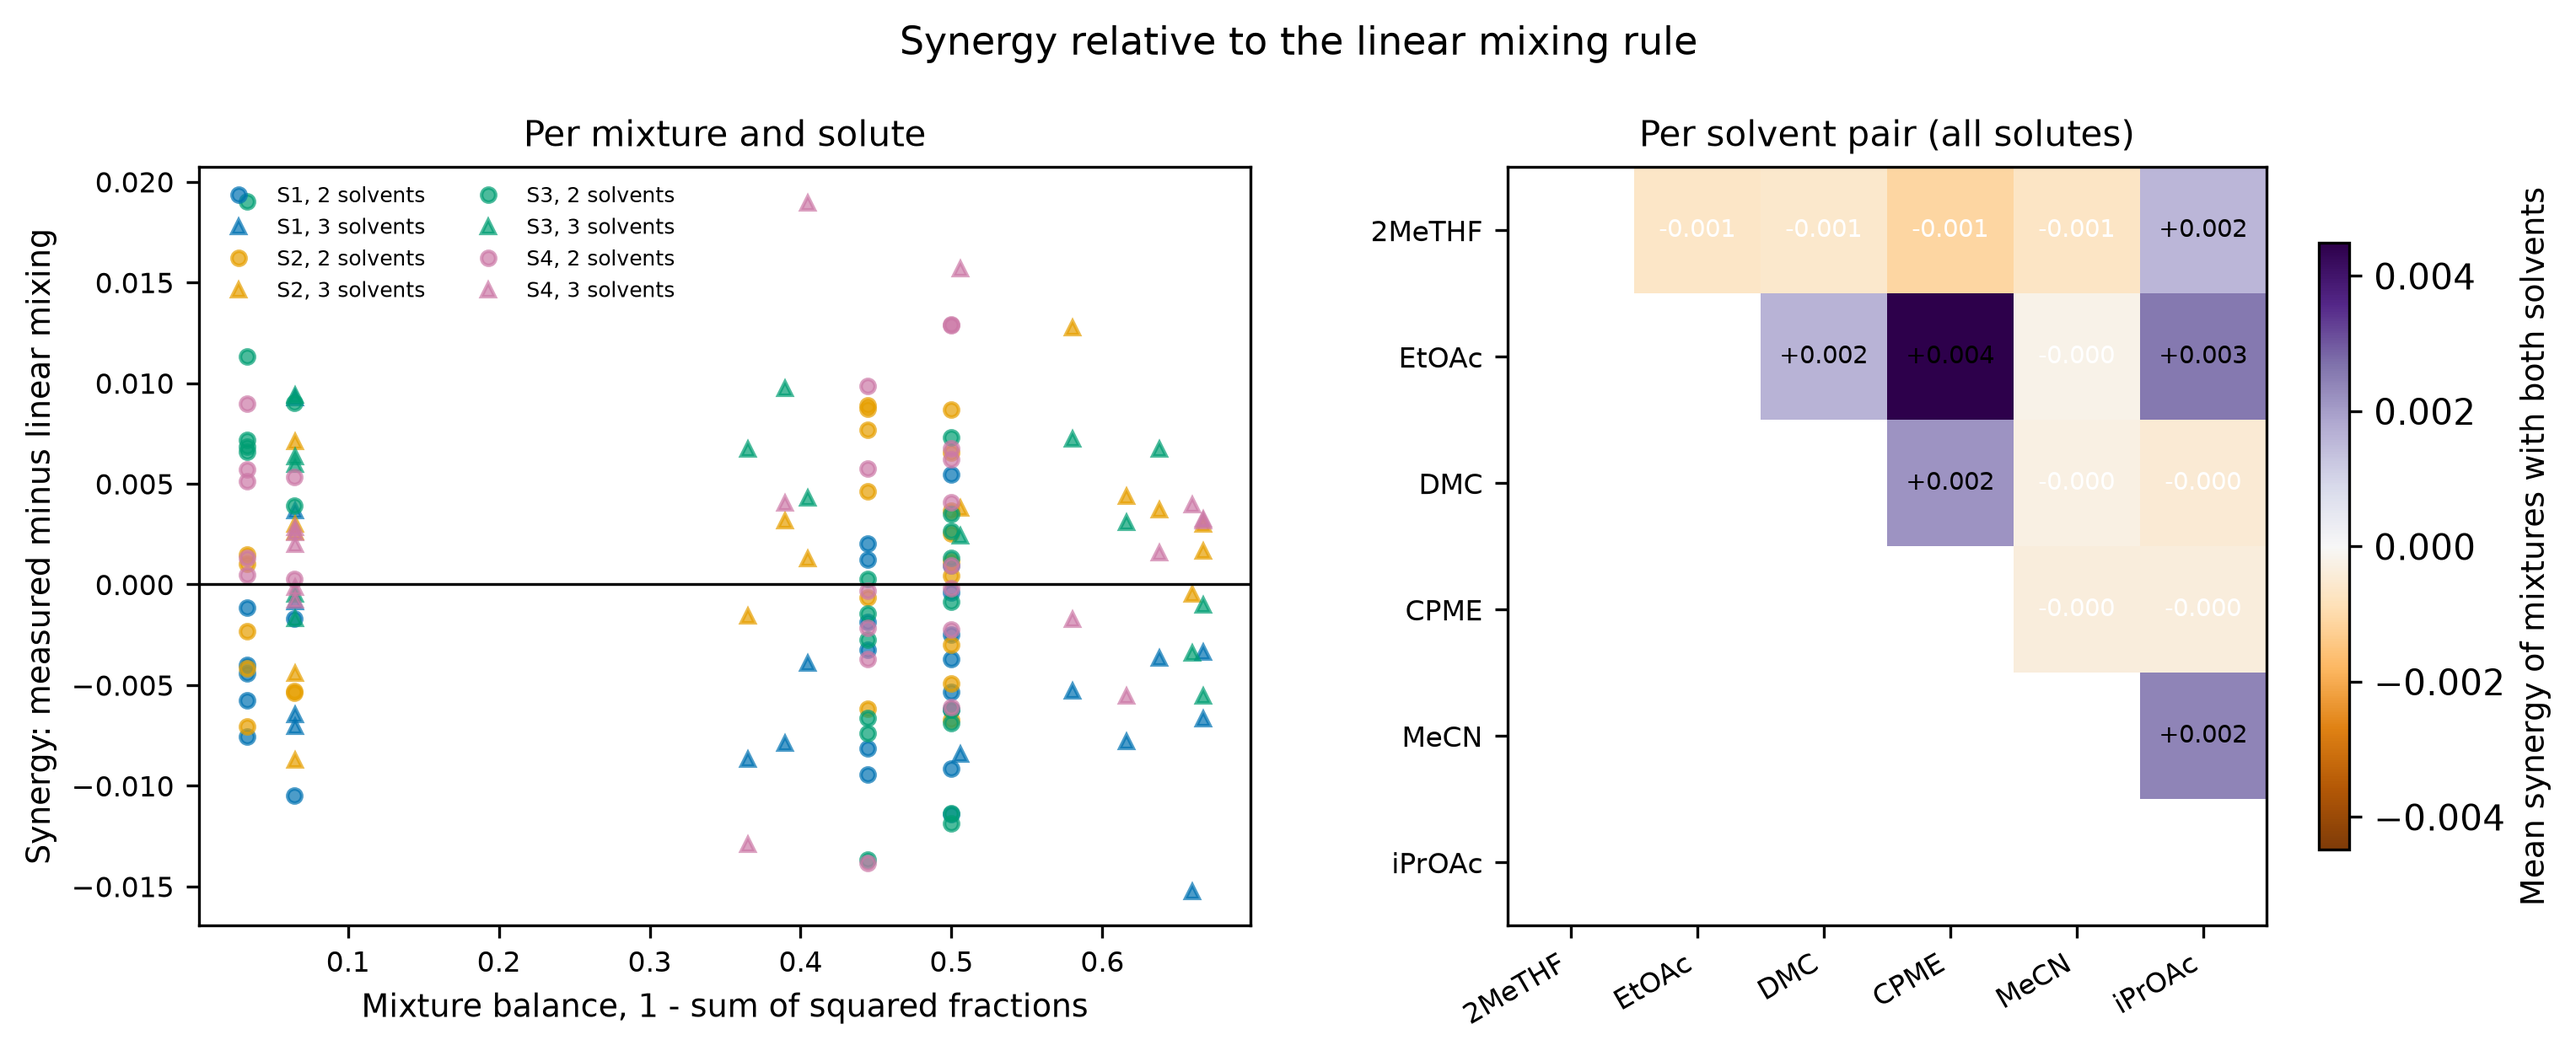
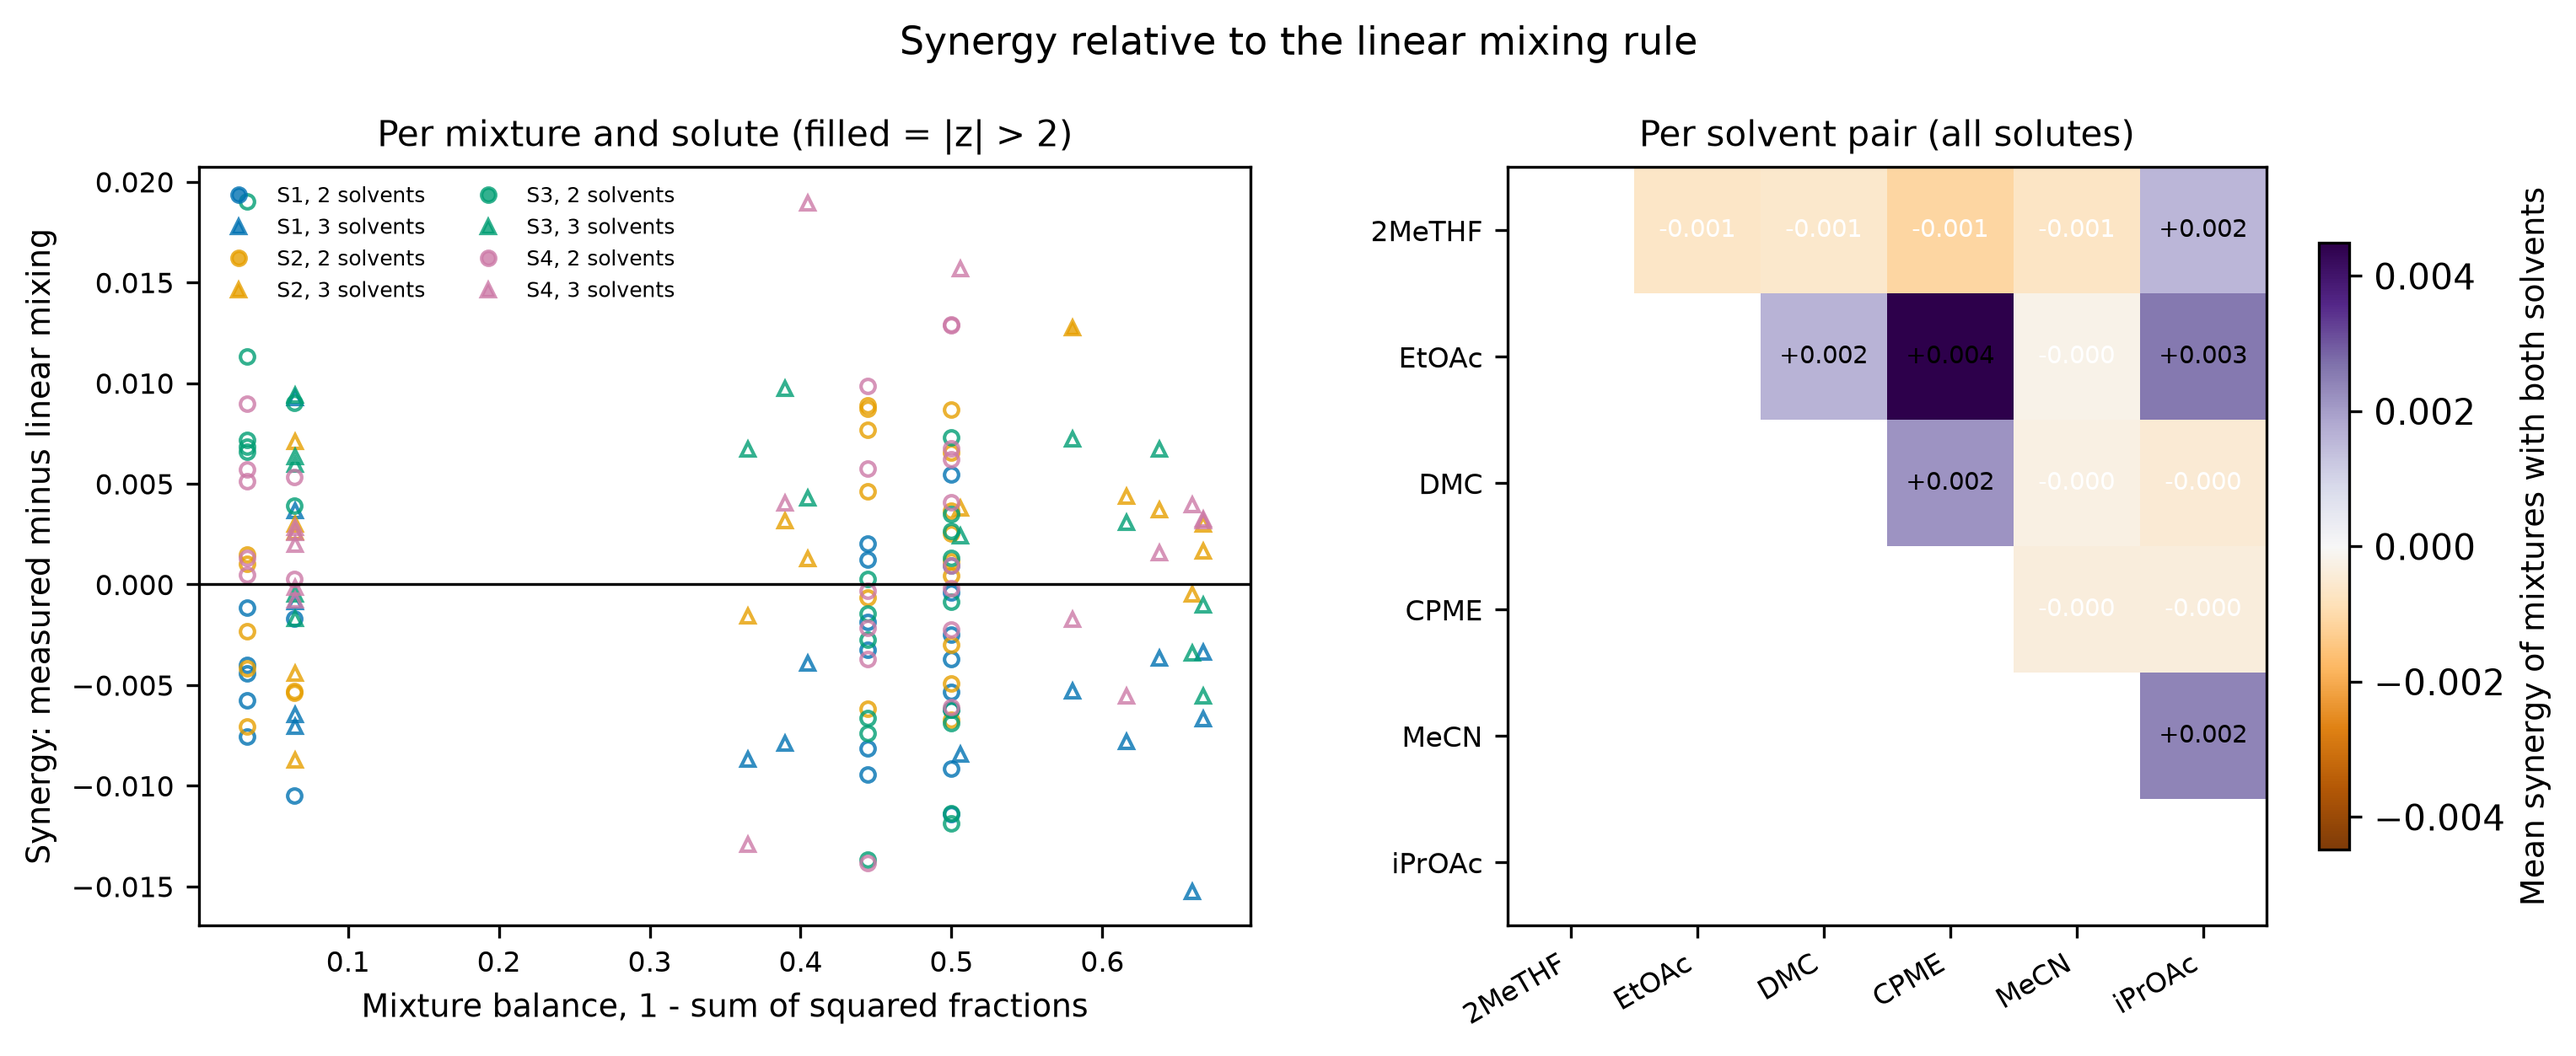
DATA: Regenerate toy-run reports with synergy significance

diff --git a/examples/toy_additive_output_one_plate/figures/report_summary.md b/examples/toy_additive_output_one_plate/figures/report_summary.md
@@ -8,10 +8,10 @@ For each solute on its own, does any green-solvent mixture dissolve more than th
 
 | solute | best_mixture | rel_mixture | best_pure | rel_pure | ratio | z | mixture_beats_pure |
 |---|---|---|---|---|---|---|---|
-| S1 | 0.983 DMC + 0.0167 MeCN | 0.892 | 1 DMC | 0.898 | 0.993 | -2.357 | False |
-| S2 | 0.983 DMC + 0.0167 CPME | 0.901 | 1 DMC | 0.904 | 0.996 | -0.818 | False |
-| S3 | 0.0167 EtOAc + 0.983 DMC | 0.915 | 1 DMC | 0.901 | 1.015 | 1.844 | False |
-| S4 | 0.0167 2MeTHF + 0.983 DMC | 0.899 | 1 DMC | 0.899 | 1.000 | 0.019 | False |
+| S1 | 0.983 DMC + 0.0167 MeCN | 0.892 | 1 DMC | 0.898 | 0.993 | -0.309 | False |
+| S2 | 0.983 DMC + 0.0167 CPME | 0.901 | 1 DMC | 0.904 | 0.996 | -0.466 | False |
+| S3 | 0.0167 EtOAc + 0.983 DMC | 0.915 | 1 DMC | 0.901 | 1.015 | 0.875 | False |
+| S4 | 0.0167 2MeTHF + 0.983 DMC | 0.899 | 1 DMC | 0.899 | 1.000 | 0.013 | False |
 
 
 ![report_R1_per_solute](report_R1_per_solute.png)
@@ -24,16 +24,16 @@ Is there one mixture that dissolves all solutes well at once, i.e. whose worst s
 
 | rank | mixture | obj_min_rel | obj_err | worst_solute | n_solvents | first_round |
 |---|---|---|---|---|---|---|
-| 1 | 1 DMC | 0.898 | 0.003 | S1 | 1 | 1 |
-| 2 | 0.983 DMC + 0.0167 MeCN | 0.891 | 0.000 | S4 | 2 | 2 |
-| 3 | 0.983 DMC + 0.0167 iPrOAc | 0.886 | 0.000 | S2 | 2 | 2 |
-| 4 | 0.983 DMC + 0.0167 CPME | 0.886 | 0.000 | S1 | 2 | 2 |
-| 5 | 0.0167 EtOAc + 0.983 DMC | 0.885 | 0.000 | S1 | 2 | 2 |
-| 6 | 0.0167 2MeTHF + 0.983 DMC | 0.882 | 0.000 | S1 | 2 | 2 |
-| 7 | 0.0167 2MeTHF + 0.967 DMC + 0.0167 MeCN | 0.881 | 0.000 | S3 | 3 | 2 |
-| 8 | 0.0167 2MeTHF + 0.0167 EtOAc + 0.967 DMC | 0.880 | 0.000 | S2 | 3 | 2 |
-| 9 | 0.0167 EtOAc + 0.967 DMC + 0.0167 iPrOAc | 0.879 | 0.000 | S1 | 3 | 2 |
-| 10 | 0.0167 2MeTHF + 0.967 DMC + 0.0167 iPrOAc | 0.879 | 0.000 | S2 | 3 | 2 |
+| 1 | 1 DMC | 0.898 | 0.014 | S1 | 1 | 1 |
+| 2 | 0.983 DMC + 0.0167 MeCN | 0.891 | 0.014 | S4 | 2 | 2 |
+| 3 | 0.983 DMC + 0.0167 iPrOAc | 0.886 | 0.005 | S2 | 2 | 2 |
+| 4 | 0.983 DMC + 0.0167 CPME | 0.886 | 0.014 | S1 | 2 | 2 |
+| 5 | 0.0167 EtOAc + 0.983 DMC | 0.885 | 0.014 | S1 | 2 | 2 |
+| 6 | 0.0167 2MeTHF + 0.983 DMC | 0.882 | 0.014 | S1 | 2 | 2 |
+| 7 | 0.0167 2MeTHF + 0.967 DMC + 0.0167 MeCN | 0.881 | 0.011 | S3 | 3 | 2 |
+| 8 | 0.0167 2MeTHF + 0.0167 EtOAc + 0.967 DMC | 0.880 | 0.005 | S2 | 3 | 2 |
+| 9 | 0.0167 EtOAc + 0.967 DMC + 0.0167 iPrOAc | 0.879 | 0.014 | S1 | 3 | 2 |
+| 10 | 0.0167 2MeTHF + 0.967 DMC + 0.0167 iPrOAc | 0.879 | 0.005 | S2 | 3 | 2 |
 
 
 ![report_R2_objective](report_R2_objective.png)
@@ -78,13 +78,15 @@ Where in composition space do the good mixtures lie, and what does the model bel
 Do mixtures dissolve more than the fraction-weighted average of their pure solvents would predict, i.e. is there genuine synergy, and between which solvent pairs?
 
 - Synergy > 0: the mixture dissolves more than the fraction-weighted average of its pure solvents would predict.
+- Significant when |z| = |synergy| / its error > 2; the error combines the mixture's and its pure solvents' pooled errors. Typical threshold here: 0.028 in relative solubility (median error 0.014).
+- By chance about 5 % of mixtures (2 per solute) pass |z| > 2. Mixtures sharing a pure solvent share its single measurement, so a cluster of same-sign 'significant' synergies around one solvent may just mean that solvent's pure value is off; re-measuring the pure solvents settles it.
 
-| solute | n_mixtures | mean_synergy | max_synergy | most_synergistic |
-|---|---|---|---|---|
-| S1 | 37 | -0.004 | 0.009 | 0.0167 2MeTHF + 0.967 DMC + 0.0167 MeCN |
-| S2 | 37 | 0.001 | 0.013 | 0.4 2MeTHF + 0.5 EtOAc + 0.1 iPrOAc |
-| S3 | 37 | 0.002 | 0.019 | 0.0167 EtOAc + 0.983 DMC |
-| S4 | 37 | 0.003 | 0.019 | 0.15 2MeTHF + 0.1 MeCN + 0.75 iPrOAc |
+| solute | n_mixtures | n_significant | n_significant_positive | mean_synergy | max_synergy | max_z | most_synergistic |
+|---|---|---|---|---|---|---|---|
+| S1 | 37 | 0 | 0 | -0.004 | 0.009 | 0.485 | 0.0167 2MeTHF + 0.967 DMC + 0.0167 MeCN |
+| S2 | 37 | 1 | 1 | 0.001 | 0.013 | 2.446 | 0.4 2MeTHF + 0.5 EtOAc + 0.1 iPrOAc |
+| S3 | 37 | 0 | 0 | 0.002 | 0.019 | 1.202 | 0.0167 EtOAc + 0.983 DMC |
+| S4 | 37 | 0 | 0 | 0.003 | 0.019 | 1.241 | 0.15 2MeTHF + 0.1 MeCN + 0.75 iPrOAc |
 
 
 ![report_R5_synergy](report_R5_synergy.png)

diff --git a/examples/toy_additive_output/figures/report_summary.md b/examples/toy_additive_output/figures/report_summary.md
@@ -8,10 +8,10 @@ For each solute on its own, does any green-solvent mixture dissolve more than th
 
 | solute | best_mixture | rel_mixture | best_pure | rel_pure | ratio | z | mixture_beats_pure |
 |---|---|---|---|---|---|---|---|
-| S1 | 0.983 DMC + 0.0167 iPrOAc | 0.896 | 1 DMC | 0.897 | 0.998 | -0.420 | False |
-| S2 | 0.983 DMC + 0.0167 MeCN | 0.897 | 1 DMC | 0.900 | 0.997 | -0.344 | False |
-| S3 | 0.0167 2MeTHF + 0.983 DMC | 0.899 | 1 DMC | 0.902 | 0.997 | -0.661 | False |
-| S4 | 0.0167 2MeTHF + 0.983 DMC | 0.905 | 1 DMC | 0.903 | 1.003 | 0.240 | False |
+| S1 | 0.983 DMC + 0.0167 iPrOAc | 0.896 | 1 DMC | 0.897 | 0.998 | -0.300 | False |
+| S2 | 0.983 DMC + 0.0167 MeCN | 0.897 | 1 DMC | 0.900 | 0.997 | -0.262 | False |
+| S3 | 0.0167 2MeTHF + 0.983 DMC | 0.899 | 1 DMC | 0.902 | 0.997 | -0.484 | False |
+| S4 | 0.0167 2MeTHF + 0.983 DMC | 0.905 | 1 DMC | 0.903 | 1.003 | 0.231 | False |
 
 
 ![report_R1_per_solute](report_R1_per_solute.png)
@@ -24,15 +24,15 @@ Is there one mixture that dissolves all solutes well at once, i.e. whose worst s
 
 | rank | mixture | obj_min_rel | obj_err | worst_solute | n_solvents | first_round |
 |---|---|---|---|---|---|---|
-| 1 | 1 DMC | 0.897 | 0.004 | S1 | 1 | 1 |
-| 2 | 0.983 DMC + 0.0167 iPrOAc | 0.890 | 0.002 | S2 | 2 | 2 |
-| 3 | 0.983 DMC + 0.0167 MeCN | 0.889 | 0.002 | S1 | 2 | 2 |
-| 4 | 0.0167 2MeTHF + 0.983 DMC | 0.886 | 0.002 | S1 | 2 | 3 |
+| 1 | 1 DMC | 0.897 | 0.005 | S1 | 1 | 1 |
+| 2 | 0.983 DMC + 0.0167 iPrOAc | 0.890 | 0.006 | S2 | 2 | 2 |
+| 3 | 0.983 DMC + 0.0167 MeCN | 0.889 | 0.003 | S1 | 2 | 2 |
+| 4 | 0.0167 2MeTHF + 0.983 DMC | 0.886 | 0.003 | S1 | 2 | 3 |
 | 5 | 0.983 DMC + 0.0167 CPME | 0.883 | 0.005 | S4 | 2 | 2 |
 | 6 | 0.0167 EtOAc + 0.983 DMC | 0.883 | 0.003 | S1 | 2 | 2 |
 | 7 | 0.0167 EtOAc + 0.967 DMC + 0.0167 MeCN | 0.882 | 0.004 | S3 | 3 | 3 |
-| 8 | 0.0167 EtOAc + 0.967 DMC + 0.0167 iPrOAc | 0.876 | 0.003 | S2 | 3 | 3 |
-| 9 | 0.217 EtOAc + 0.65 DMC + 0.133 MeCN | 0.739 | 0.002 | S3 | 3 | 3 |
+| 8 | 0.0167 EtOAc + 0.967 DMC + 0.0167 iPrOAc | 0.876 | 0.006 | S2 | 3 | 3 |
+| 9 | 0.217 EtOAc + 0.65 DMC + 0.133 MeCN | 0.739 | 0.003 | S3 | 3 | 3 |
 | 10 | 0.333 EtOAc + 0.667 DMC | 0.712 | 0.011 | S1 | 2 | 1 |
 
 
@@ -81,13 +81,15 @@ Where in composition space do the good mixtures lie, and what does the model bel
 Do mixtures dissolve more than the fraction-weighted average of their pure solvents would predict, i.e. is there genuine synergy, and between which solvent pairs?
 
 - Synergy > 0: the mixture dissolves more than the fraction-weighted average of its pure solvents would predict.
+- Significant when |z| = |synergy| / its error > 2; the error combines the mixture's and its pure solvents' pooled errors. Typical threshold here: 0.007 in relative solubility (median error 0.004).
+- By chance about 5 % of mixtures (3 per solute) pass |z| > 2. Mixtures sharing a pure solvent share its single measurement, so a cluster of same-sign 'significant' synergies around one solvent may just mean that solvent's pure value is off; re-measuring the pure solvents settles it.
 
-| solute | n_mixtures | mean_synergy | max_synergy | most_synergistic |
-|---|---|---|---|---|
-| S1 | 57 | -0.000 | 0.009 | 0.667 2MeTHF + 0.333 DMC |
-| S2 | 57 | -0.003 | 0.008 | 0.5 DMC + 0.5 MeCN |
-| S3 | 57 | -0.004 | 0.004 | 0.0167 2MeTHF + 0.983 DMC |
-| S4 | 57 | -0.001 | 0.011 | 0.5 DMC + 0.5 iPrOAc |
+| solute | n_mixtures | n_significant | n_significant_positive | mean_synergy | max_synergy | max_z | most_synergistic |
+|---|---|---|---|---|---|---|---|
+| S1 | 57 | 6 | 2 | -0.000 | 0.009 | 3.036 | 0.667 2MeTHF + 0.333 DMC |
+| S2 | 57 | 6 | 1 | -0.003 | 0.008 | 1.049 | 0.5 DMC + 0.5 MeCN |
+| S3 | 57 | 13 | 0 | -0.004 | 0.004 | 0.828 | 0.0167 2MeTHF + 0.983 DMC |
+| S4 | 57 | 0 | 0 | -0.001 | 0.011 | 1.804 | 0.5 DMC + 0.5 iPrOAc |
 
 
 ![report_R5_synergy](report_R5_synergy.png)
